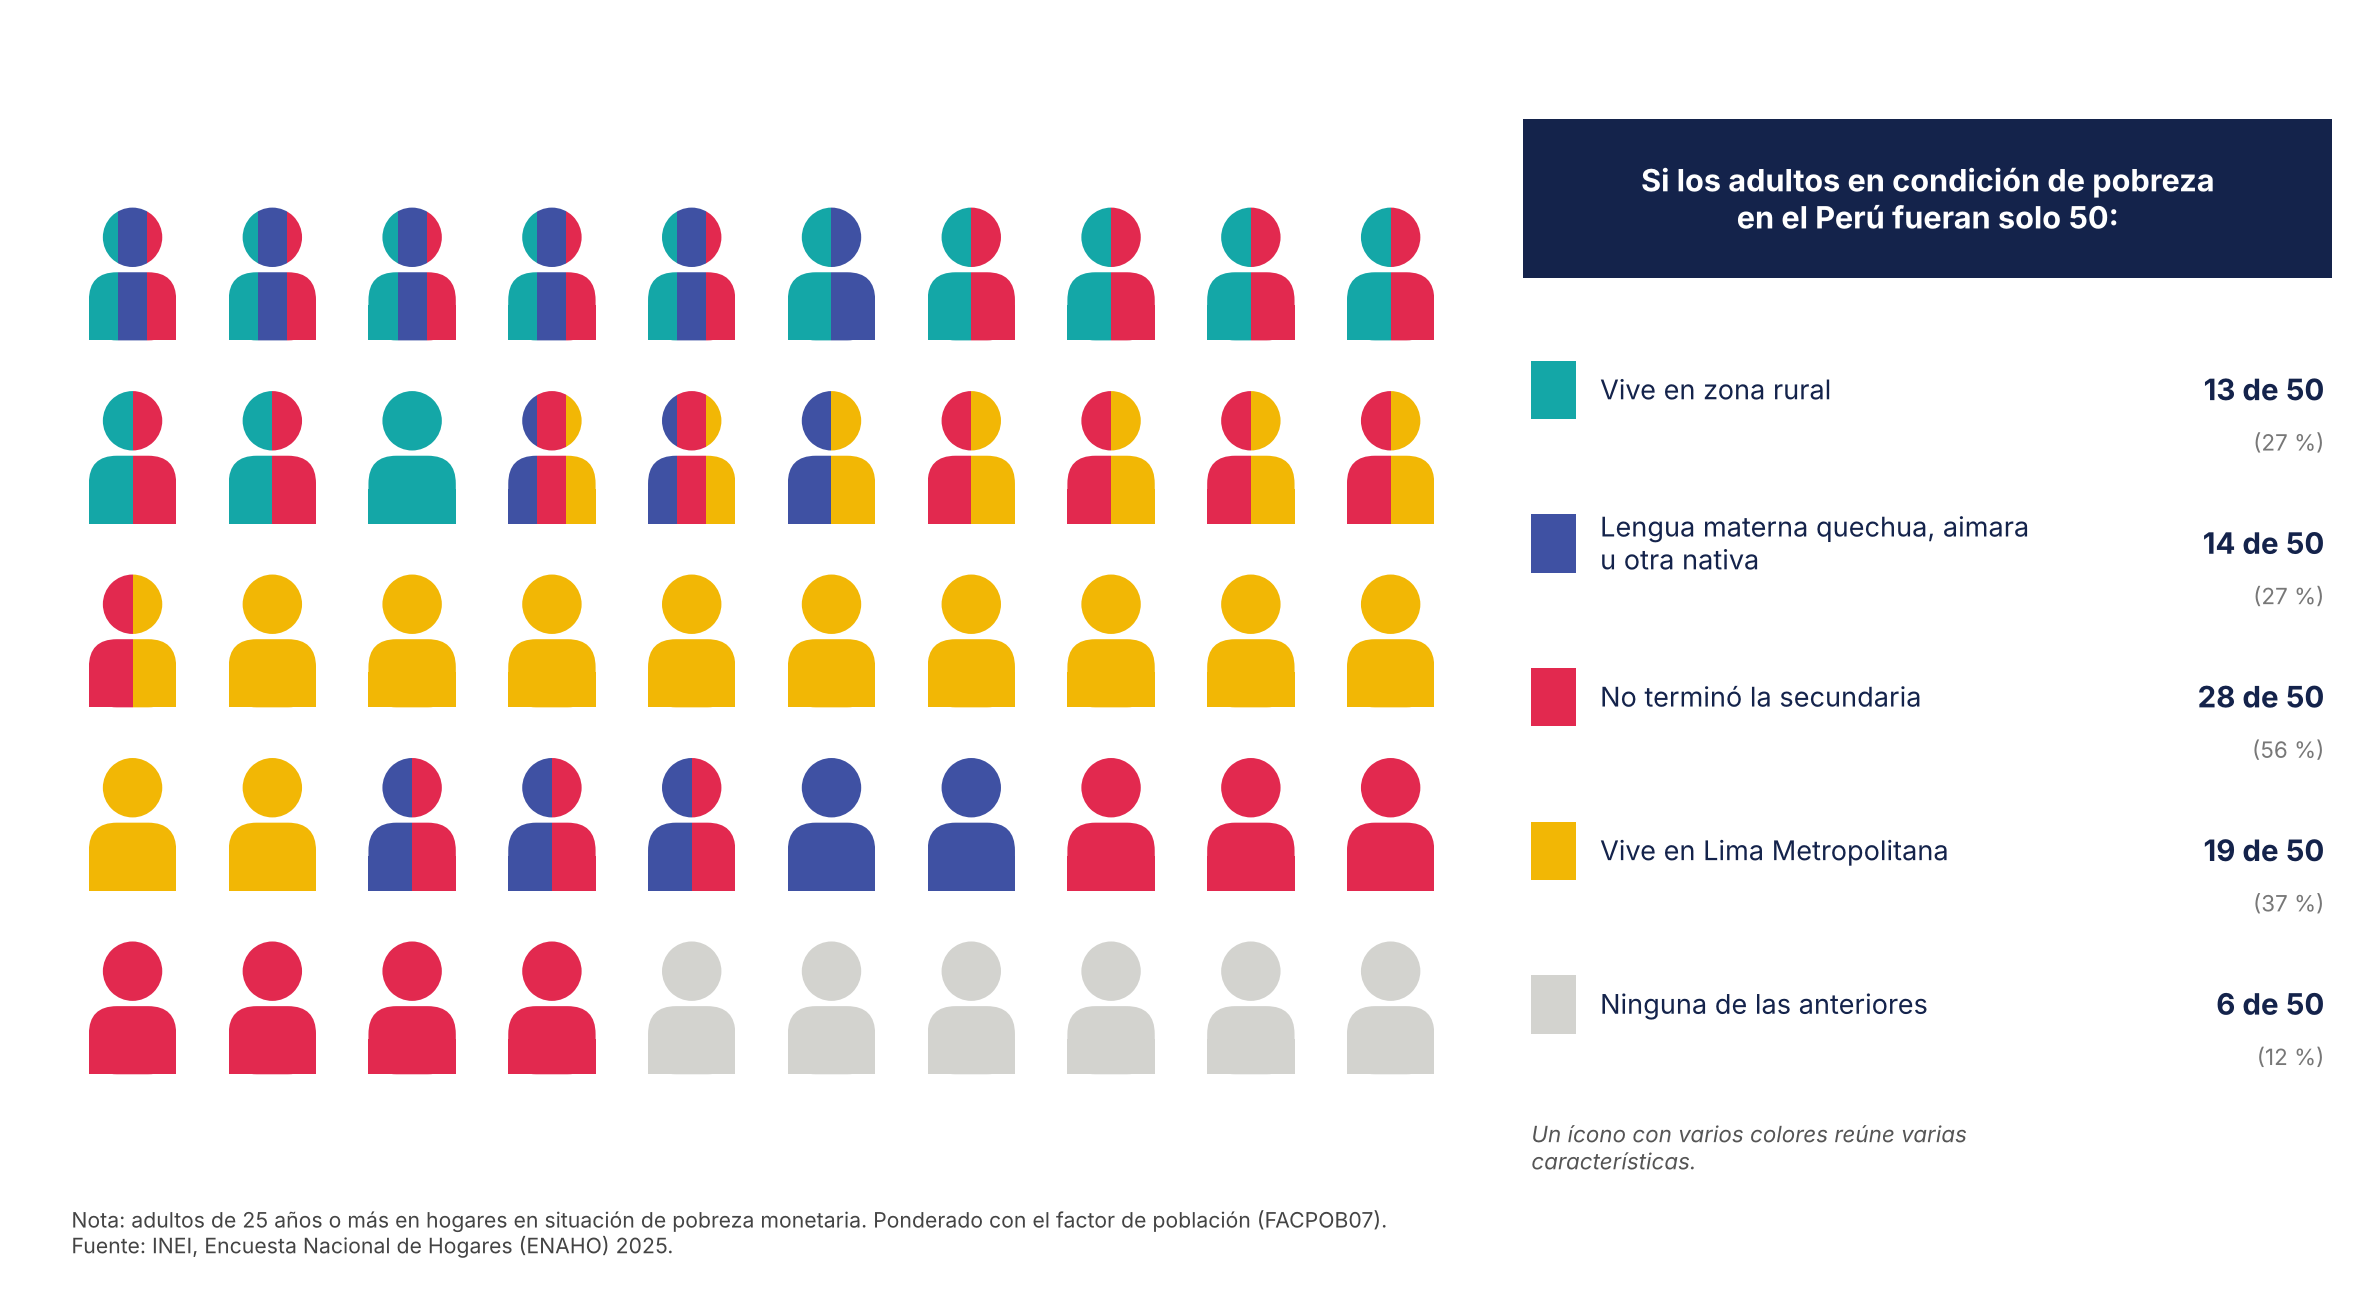
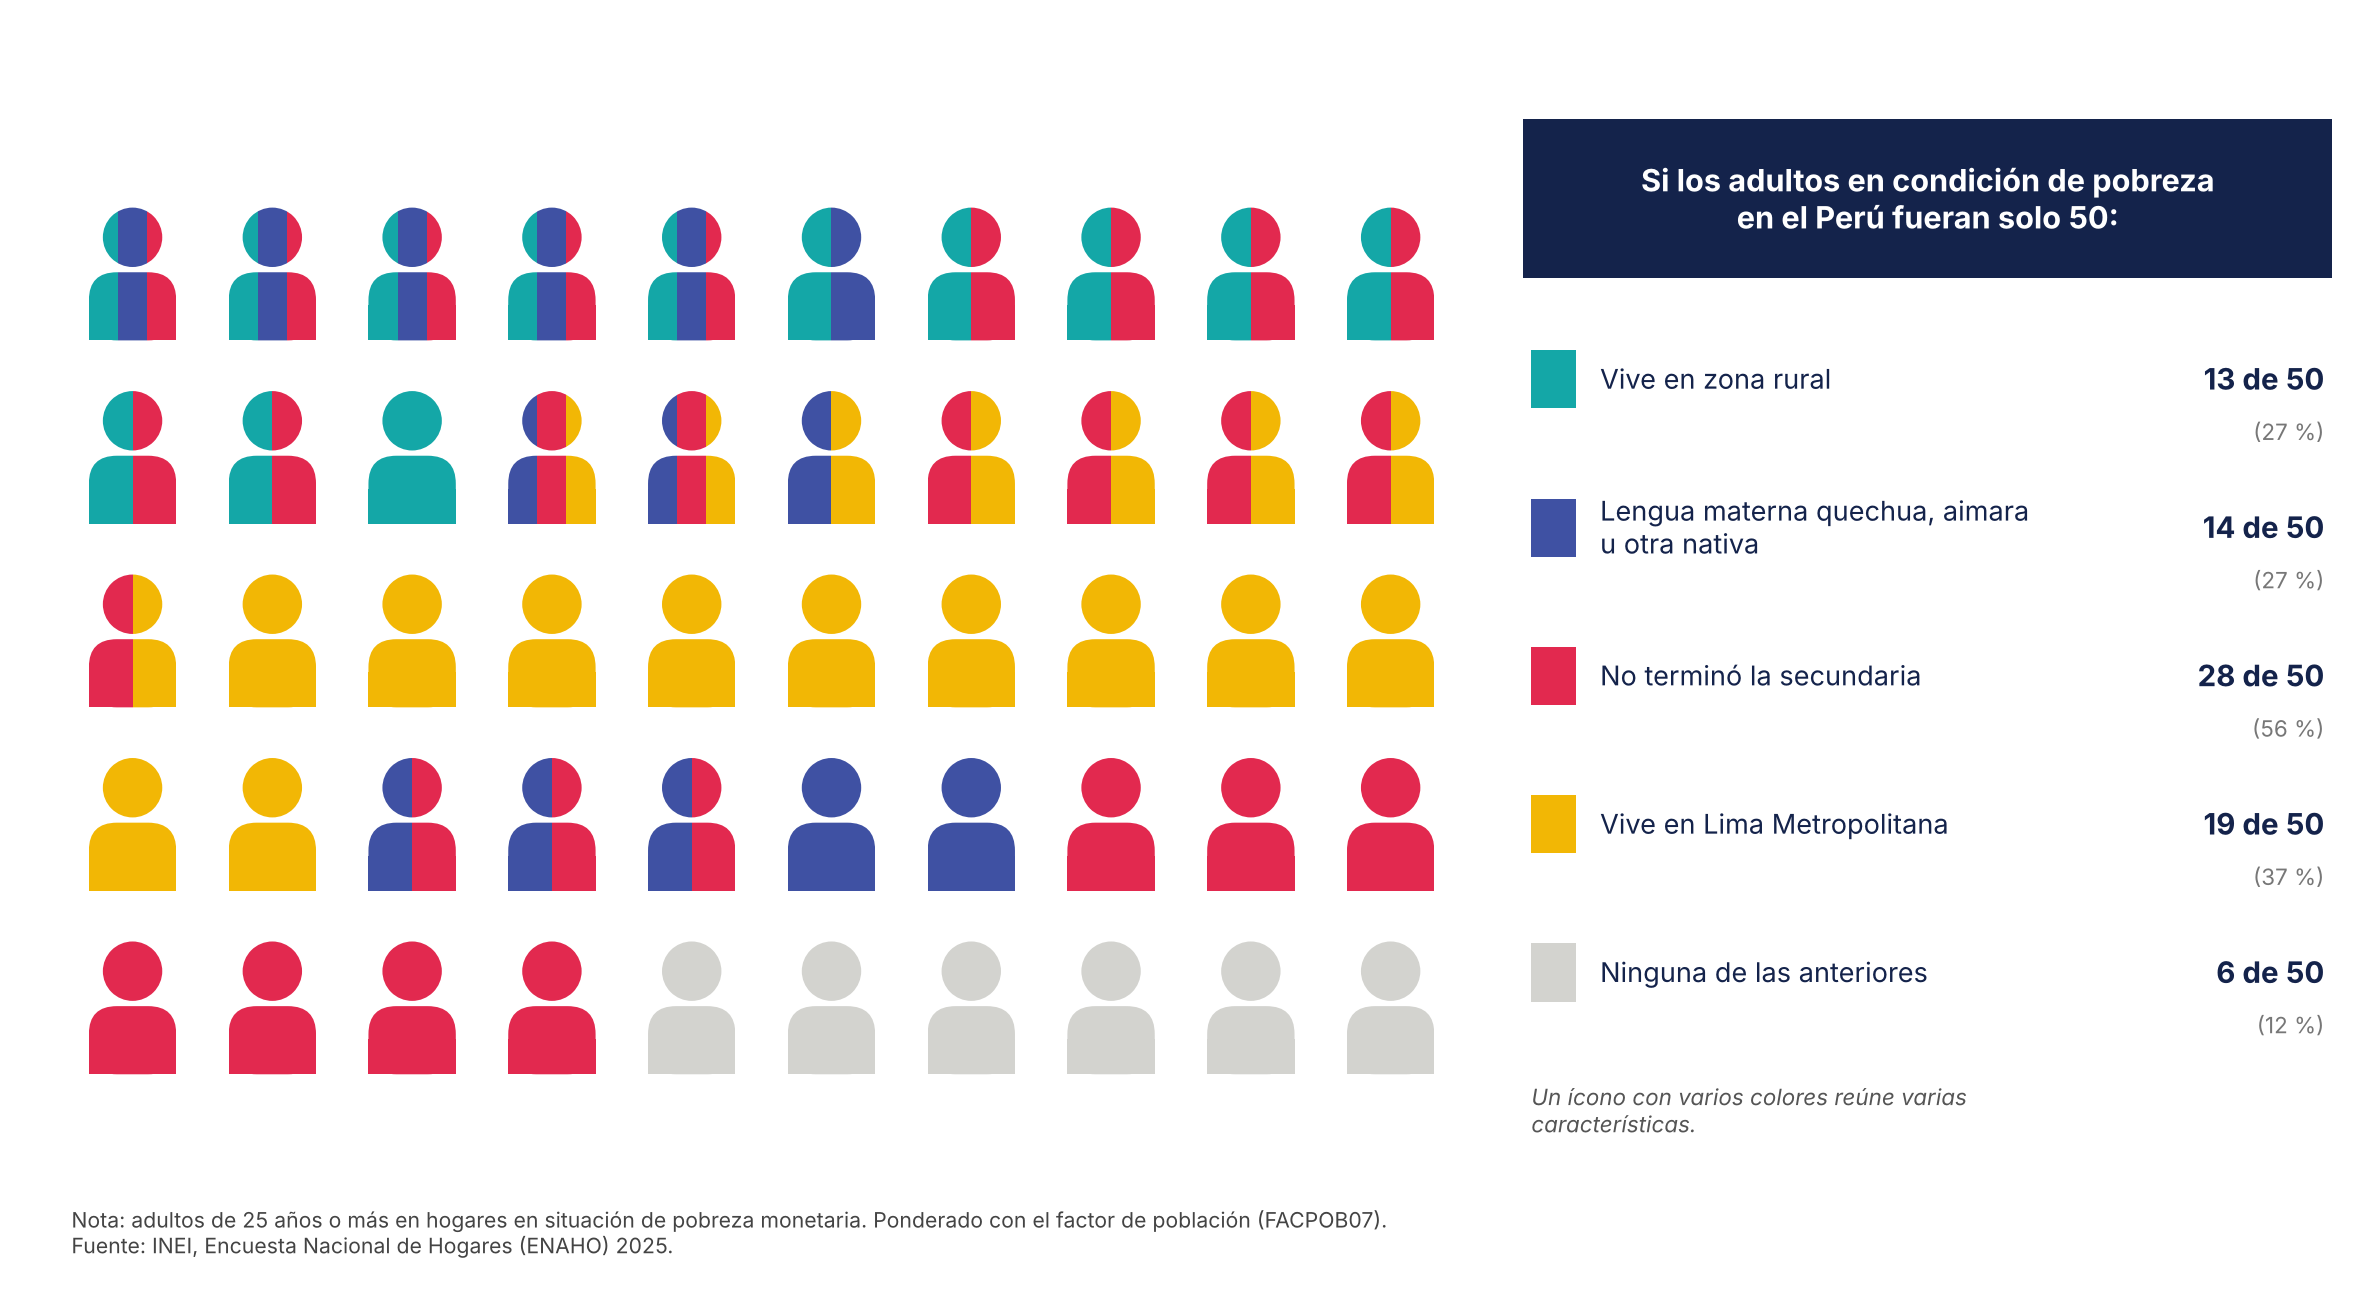
Gráfico de íconos: versión con 'no recibe programas' y 'pobreza extrema' juntos
Claude-Session: https://claude.ai/code/session_01UnFogaSF2Knum9wnemTp8Q

diff --git a/iconos_adultos_pobres.py b/iconos_adultos_pobres.py
@@ -1,8 +1,8 @@
 """
 Gráfico de íconos "La pobreza en adultos en el Perú" (2025): si los adultos pobres
 fueran 50, cuántos viven en zona rural, tienen lengua materna nativa, no terminaron
-la secundaria y tienen una cuarta característica (y sus combinaciones). Se genera
-una versión por cada cuarta característica en VARIANTES.
+la secundaria y tienen otras características (y sus combinaciones). Se genera una
+versión por cada entrada de VARIANTES.
 
 Cifras: adultos de 25+ años en hogares pobres, ponderados con FACTOR07 (= FACPOB07),
 calculadas con pobreza_adultos_2025.py.
@@ -22,24 +22,26 @@ SALIDA = Path(__file__).resolve().parent / "resultados"
 PESO = "factor07"
 
 TEAL, AMARILLO, AZUL, ROJO, GRIS = "#14A7A7", "#F2B705", "#3F51A3", "#E2294F", "#D3D3CF"
-TINTA = "#14234B"
+CARBON, TINTA = "#3A3A3A", "#14234B"
 
-CLAVES = ["rural", "nativa", "sin_secundaria", "extra"]
-COLORES = [TEAL, AZUL, ROJO, AMARILLO]
-
-# Cuarta característica (amarillo): nombre de archivo, etiqueta y nota
-VARIANTES = {
-    "lima": ("Vive en Lima Metropolitana", ""),
-    "sin_programa": ("Su hogar no recibe ningún\nprograma social",
-                     "Programas: Pensión 65, Juntos, Vaso de Leche y Qali Warma / Wasi Mikuna. "
-                     "Se excluyen los hogares sin respuesta al módulo de programas sociales.\n"),
-    "pobreza_extrema": ("Está en pobreza extrema", ""),
+# característica: (etiqueta, color)
+CARACTERISTICAS = {
+    "rural": ("Vive en zona rural", TEAL),
+    "lima": ("Vive en Lima Metropolitana", AMARILLO),
+    "nativa": ("Lengua materna quechua, aimara\nu otra nativa", AZUL),
+    "sin_secundaria": ("No terminó la secundaria", ROJO),
+    "sin_programa": ("Su hogar no recibe ningún\nprograma social", AMARILLO),
+    "pobreza_extrema": ("Está en pobreza extrema", CARBON),
 }
+NOTA_PROGRAMAS = ("Programas: Pensión 65, Juntos, Vaso de Leche y Qali Warma / Wasi Mikuna. "
+                  "Se excluyen los hogares sin respuesta al módulo de programas sociales.\n")
 
-
-def colores(clave):
-    c = [col for activo, col in zip(clave, COLORES) if activo]
-    return c or [GRIS]
+# versión: características que se agregan a rural, nativa y sin secundaria
+VARIANTES = {
+    "lima": ["lima"],
+    "sin_programa_pobreza_extrema": ["sin_programa", "pobreza_extrema"],
+}
+BASE = ["rural", "nativa", "sin_secundaria"]
 
 
 def icono(ax, x, y, cols, s=1.0):
@@ -94,29 +96,29 @@ def ajustar(combos, pct, objetivo):
     return combos
 
 
-def calcular(variante):
+def calcular(extras):
+    claves = BASE + extras
     d = base.cargar()
     x = d[(d.pobreza < 3) & (d.p208a >= 25)].copy()
-    if variante == "lima":
-        x["extra"] = x.dominio == 8
-    elif variante == "pobreza_extrema":
-        x["extra"] = x.pobreza == 1
-    else:
+    x["lima"] = x.dominio == 8
+    x["pobreza_extrema"] = x.pobreza == 1
+    if "sin_programa" in extras:
         x = x.merge(sin_programa(), on=base.LLAVE, how="left").dropna(subset=["sin_programa"])
-        x["extra"] = x.sin_programa == 1
+        x["sin_programa"] = x.sin_programa == 1
 
-    w = x.groupby(CLAVES)[PESO].sum()
+    w = x.groupby(claves)[PESO].sum()
     w = w[w > 0]
-    # rurales primero, luego los que tienen la cuarta característica; grises al final
-    orden = sorted(w.index, key=lambda k: tuple(not v for v in (k[0], k[3], k[1], k[2])))
+    # rurales primero, luego por las características agregadas; grises al final
+    prioridad = [0] + list(range(3, len(claves))) + [1, 2]
+    orden = sorted(w.index, key=lambda k: tuple(not k[i] for i in prioridad))
     pct = 100 * w.reindex(orden) / w.sum()
     combos = ajustar(dict(zip(orden, base.de_50(pct.reset_index(drop=True)))), pct,
-                     {i: round(np.average(x[c], weights=x[PESO]) * 50) for i, c in enumerate(CLAVES)})
+                     {i: round(np.average(x[c], weights=x[PESO]) * 50) for i, c in enumerate(claves)})
     totales = {c: (sum(n for k, n in combos.items() if k[i]),
-                   100 * np.average(x[c], weights=x[PESO])) for i, c in enumerate(CLAVES)}
-    ninguna = (False,) * 4
+                   100 * np.average(x[c], weights=x[PESO])) for i, c in enumerate(claves)}
+    ninguna = (False,) * len(claves)
     totales["ninguna"] = (combos.get(ninguna, 0), pct.get(ninguna, 0))
-    return combos, totales
+    return claves, combos, totales
 
 
 def main():
@@ -126,8 +128,8 @@ def main():
 
 
 def dibujar(variante):
-    etiqueta_extra, nota_extra = VARIANTES[variante]
-    combos, tot = calcular(variante)
+    claves, combos, tot = calcular(VARIANTES[variante])
+    nota_extra = NOTA_PROGRAMAS if "sin_programa" in claves else ""
 
     fig = plt.figure(figsize=(14, 7.6), facecolor="white")
     ax = fig.add_axes([0.03, 0.1, 0.58, 0.82])
@@ -140,7 +142,8 @@ def dibujar(variante):
     for clave, n in combos.items():
         for _ in range(n):
             fila, col = divmod(k, 10)
-            icono(ax, col * 1.6, 8.4 - fila * 2.1, colores(clave))
+            cols = [CARACTERISTICAS[c][1] for c, activo in zip(claves, clave) if activo]
+            icono(ax, col * 1.6, 8.4 - fila * 2.1, cols or [GRIS])
             k += 1
 
     # Leyenda
@@ -151,14 +154,10 @@ def dibujar(variante):
     lg.add_patch(Rectangle((0, 8.35), 10, 1.5, color=TINTA, lw=0))
     lg.text(5, 9.1, "Si los adultos en condición de pobreza\nen el Perú fueran solo 50:",
             ha="center", va="center", fontsize=13, color="white", weight="bold")
-    items = [
-        (TEAL, "Vive en zona rural", tot["rural"]),
-        (AZUL, "Lengua materna quechua, aimara\nu otra nativa", tot["nativa"]),
-        (ROJO, "No terminó la secundaria", tot["sin_secundaria"]),
-        (AMARILLO, etiqueta_extra, tot["extra"]),
-        (GRIS, "Ninguna de las anteriores", tot["ninguna"]),
-    ]
-    y = 7.3
+    items = [(CARACTERISTICAS[c][1], CARACTERISTICAS[c][0], tot[c]) for c in claves]
+    items.append((GRIS, "Ninguna de las anteriores", tot["ninguna"]))
+    paso = 7.0 / len(items)
+    y = 7.4
     for color, texto, (n, pct) in items:
         lg.add_patch(Rectangle((0.1, y - 0.28), 0.55, 0.55, color=color, lw=0))
         lg.text(0.95, y, texto, va="center", fontsize=11.5, color=TINTA)
@@ -166,7 +165,7 @@ def dibujar(variante):
                 weight="bold")
         lg.text(9.9, y - 0.5, f"({pct:.0f} %)", va="center", ha="right", fontsize=9.5,
                 color="#777")
-        y -= 1.45
+        y -= paso
     lg.text(0.1, y + 0.35,
             "Un ícono con varios colores reúne varias\ncaracterísticas.",
             va="top", fontsize=9.5, color="#555", style="italic")
